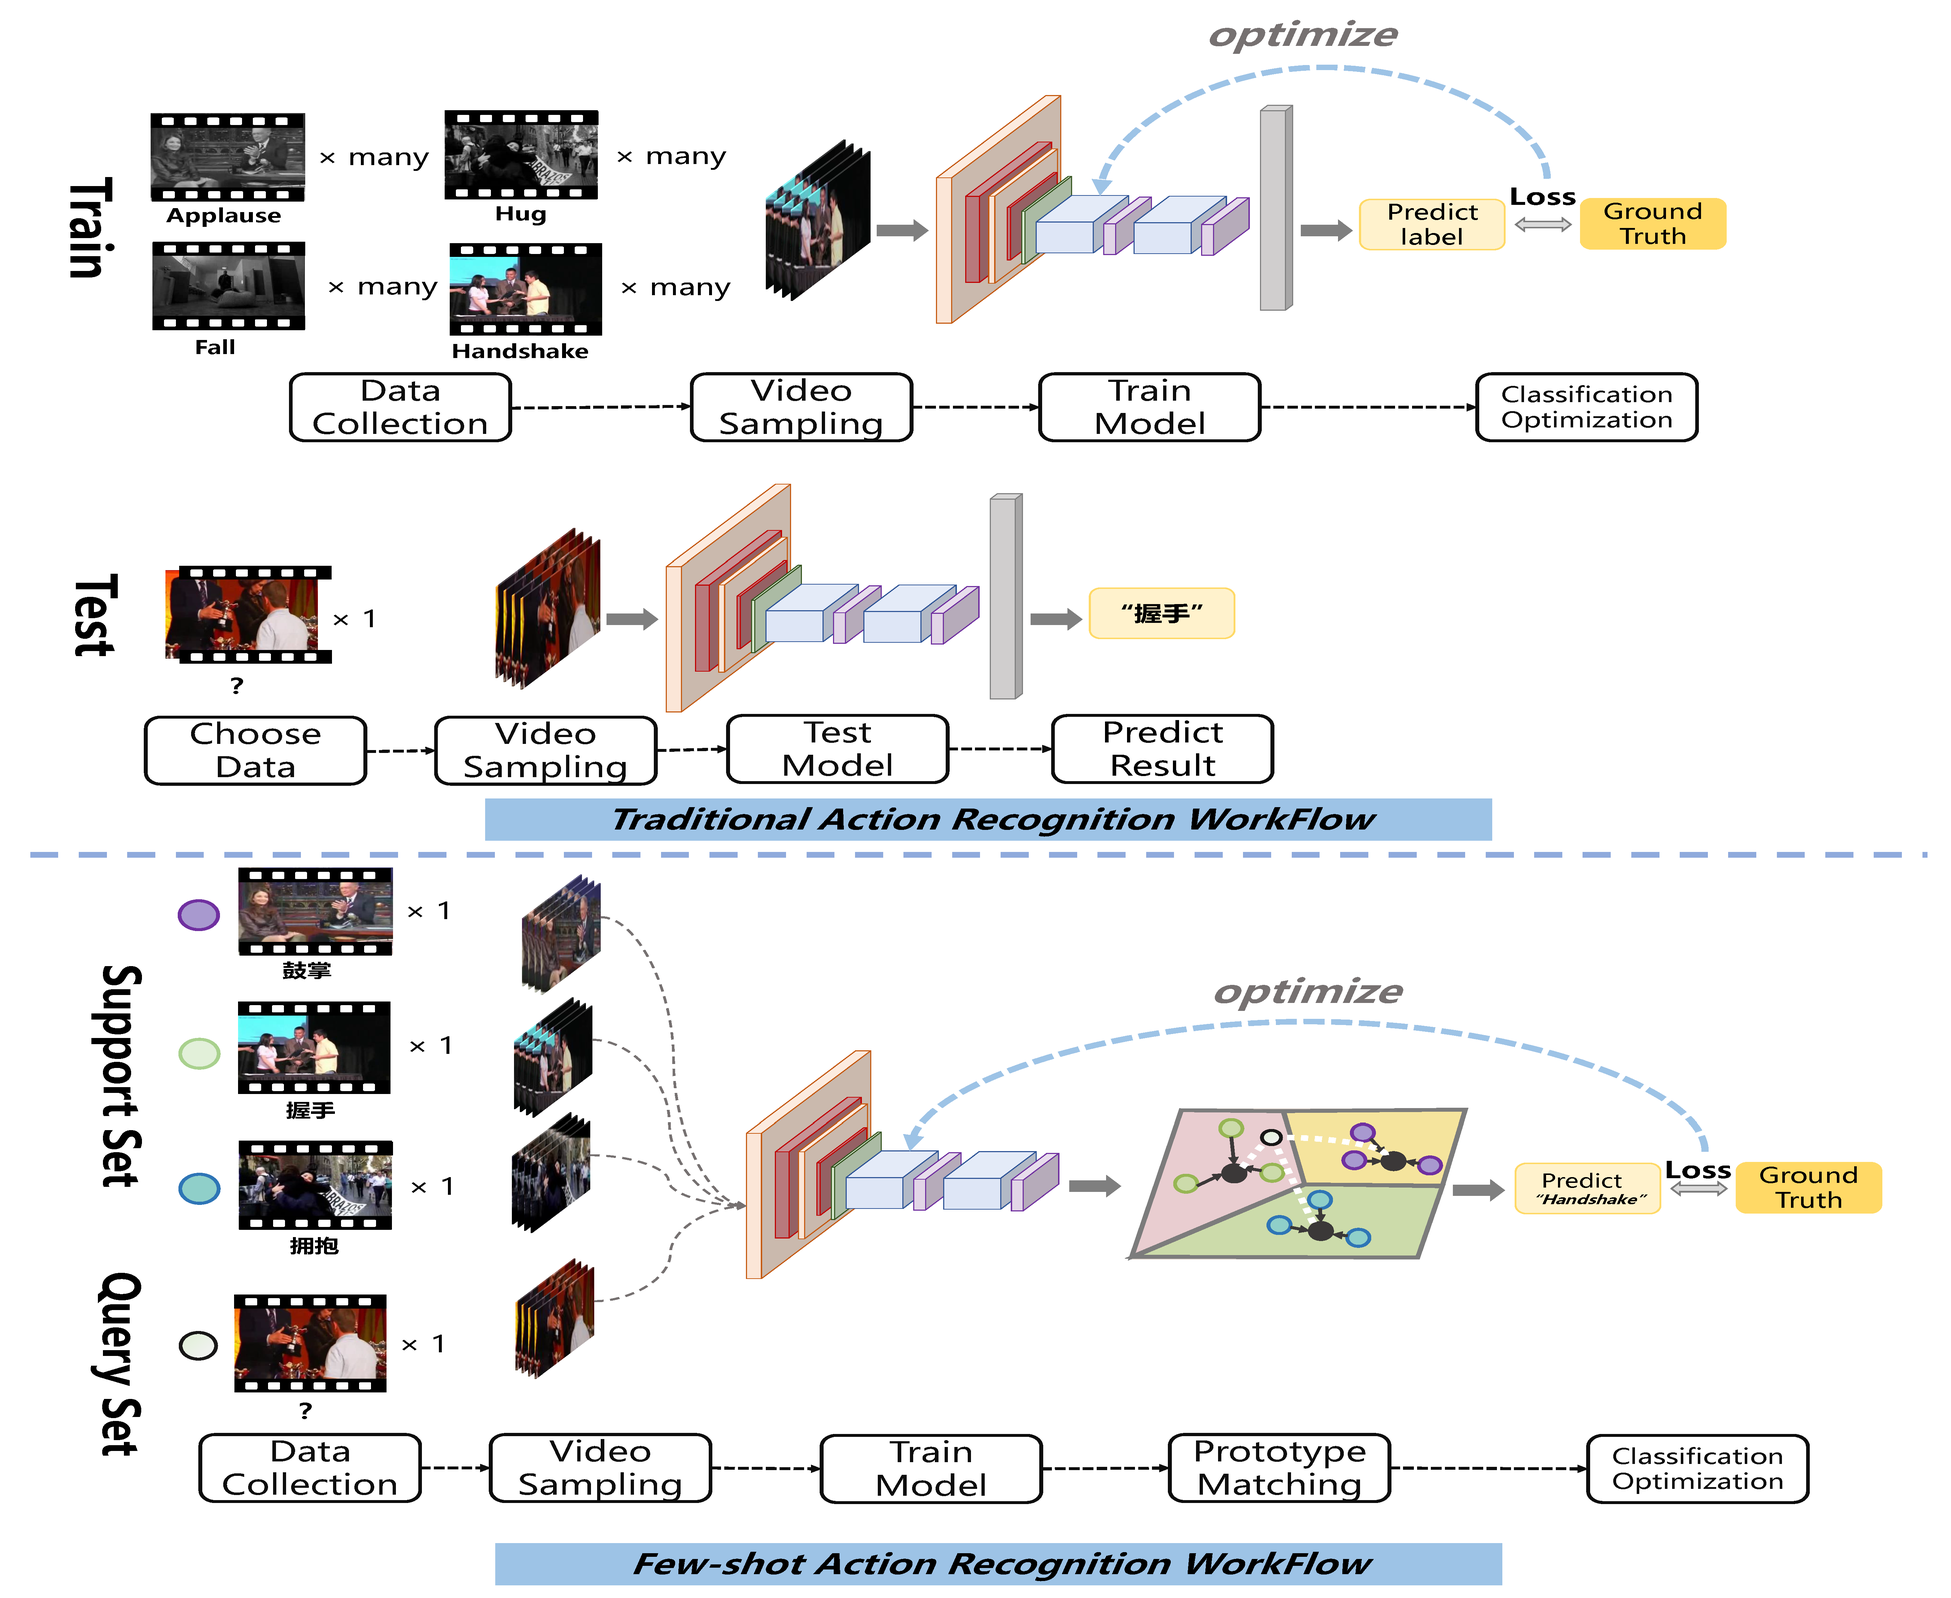
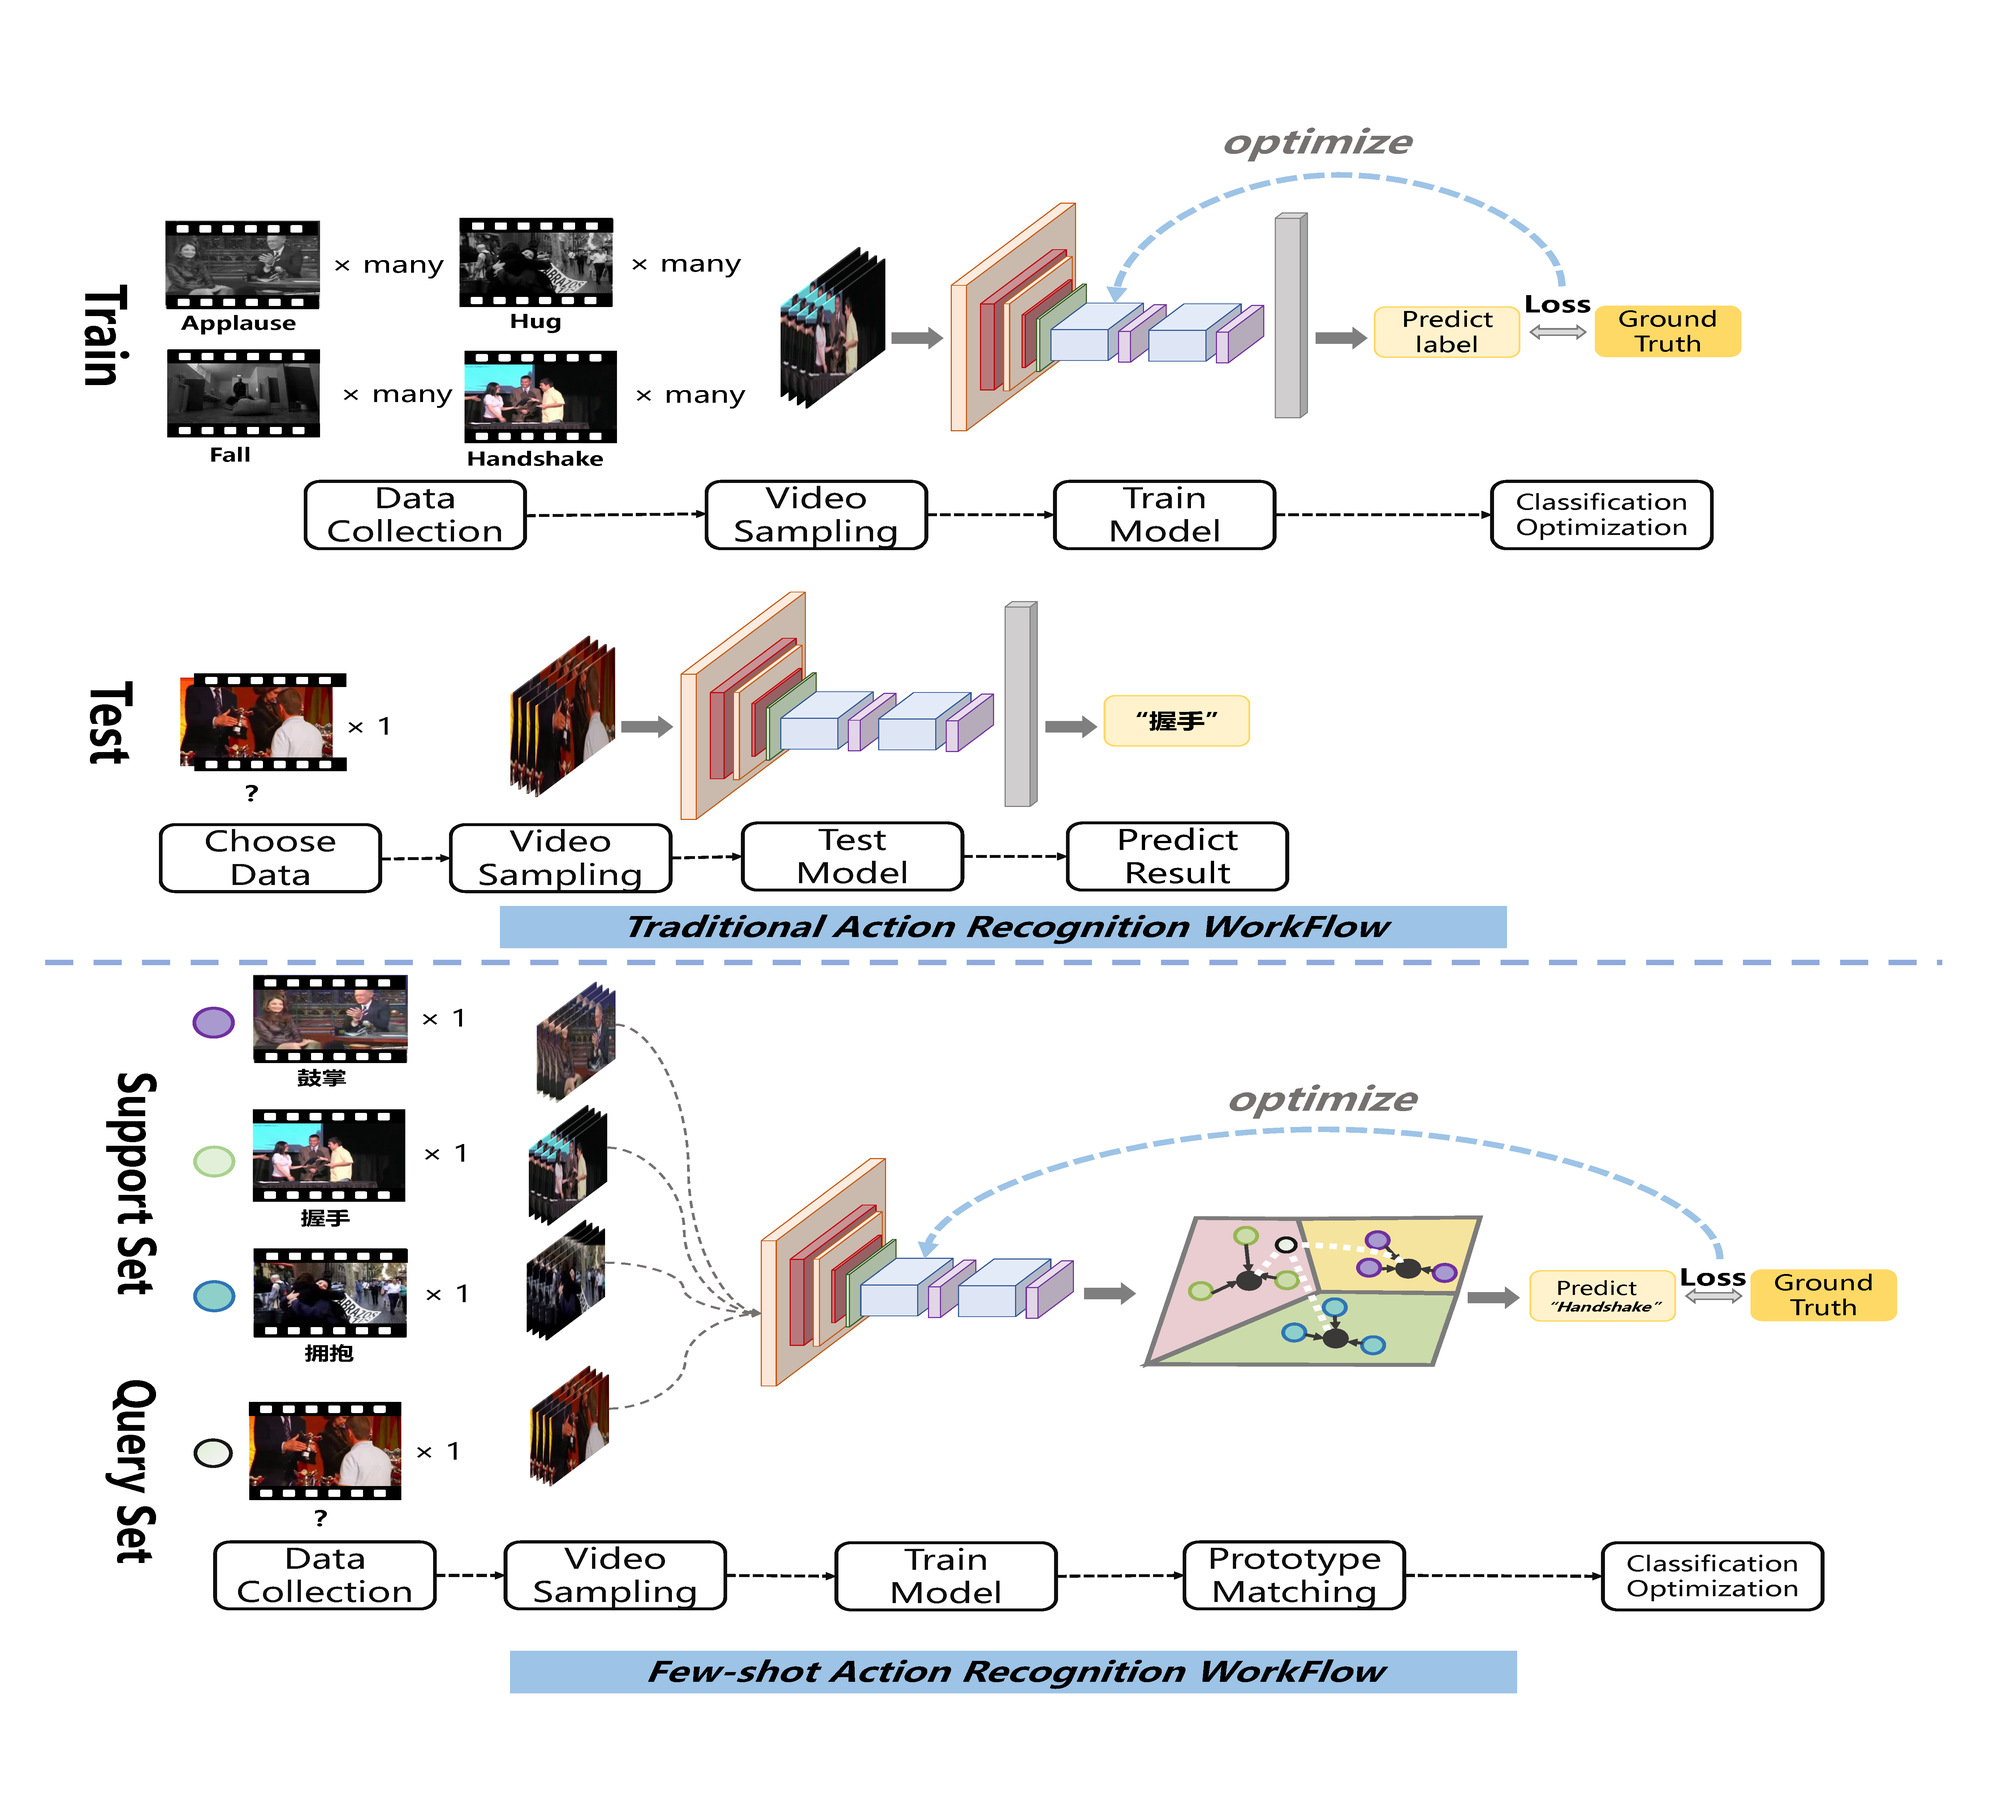
12

diff --git a/projects/1_project/index.html b/projects/1_project/index.html
@@ -100,17 +100,16 @@
                   <p><strong>📝 Background:</strong></p>
                   <p>In the rapidly evolving field of Artificial Intelligence, especially within the subset of computer vision, there's a noticeable shift from reliance on data-driven approaches towards more intelligent and autonomous learning mechanisms. Despite significant strides achieved by deep learning in action recognition, a major bottleneck remains: a heavy dependency on large-scale annotated datasets. This dependency not only incurs substantial manpower costs but also limits the applicability of these models in critical areas like defense, military, and medical diagnostics, where acquiring and annotating data is particularly challenging. This project explores few-shot learning as a solution, inspired by the human ability to recognize and classify new actions with minimal examples.</p>
                   <div class="row">
-                    <div class="col-sm mt-3 mt-md-0">
+                    <div class="col-sm mt-3 mt-md-0 d-flex justify-content-center">
                       <figure>
                         <picture>
-                          <img src="../img/garbage_sorting.jpg" class="img-fluid rounded z-depth-1" width="100%" height="auto"
-                            title="Retro OS" loading="eager"
-                            onerror="this.onerror=null; $('.responsive-img-srcset').remove();">
+                          <img src="../img/vs.png" class="img-fluid rounded z-depth-1" style="width: 500px;height: 550px;" height="auto" title="trashui" loading="eager" onerror="this.onerror=null; $('.responsive-img-srcset').remove();">
+
                         </picture>
                       </figure>
                     </div>
                   </div>
-                  <div class="caption"> Waste classification policy in Shanghai, China. </div>
+                  <div class="caption">Comparison of traditional and few-shot action recognition workflows.</div>
                   <p><strong>⚙ Submitted Work:</strong></p>
                   <p>
                     <code class="language-plaintext highlighter-rouge">Multi-modal Self-supervised Contrastive Learning for Few-Shot Action Recognition:</code>
@@ -127,17 +126,7 @@
                   <p>
                     Current models for few-shot action recognition tend to decouple the processing of temporal and spatial information from action videos, leading to insufficient integration of spatiotemporal features. Given the continuous sequence nature of videos and their inherently coupled spatiotemporal information, decoupled processing risks losing essential information and breaking the intrinsic connections of temporal and spatial dimensions. This work proposes a novel approach utilizing R(2+1)D networks to transform video sequences into joint spatiotemporal feature representations. A residual three-dimensional attention module collaboratively processes channel, spatial, and temporal dimensions. To mitigate overfitting issues common in few-shot scenarios, a prototypical attention-matching module is introduced to enhance the model’s generalization ability. Extensive experiments across classic few-shot action recognition datasets have showcased the superior performance and robustness of this method.
                   </p>
-                  <div class="row">
-                    <div class="col-sm mt-3 mt-md-0 d-flex justify-content-center">
-                      <figure>
-                        <picture>
-                          <img src="../img/vs.png" class="img-fluid rounded z-depth-1" style="max-width: 450px;" height="auto" title="trashui" loading="eager" onerror="this.onerror=null; $('.responsive-img-srcset').remove();">
 
-                        </picture>
-                      </figure>
-                    </div>
-                  </div>
-                  <div class="caption">Comparison of traditional and few-shot action recognition workflows.</div>
                   <p><strong>📅Development date:</strong></p>
                   <p>September 2021</p>
                   <p><strong>Note:</strong></p>
